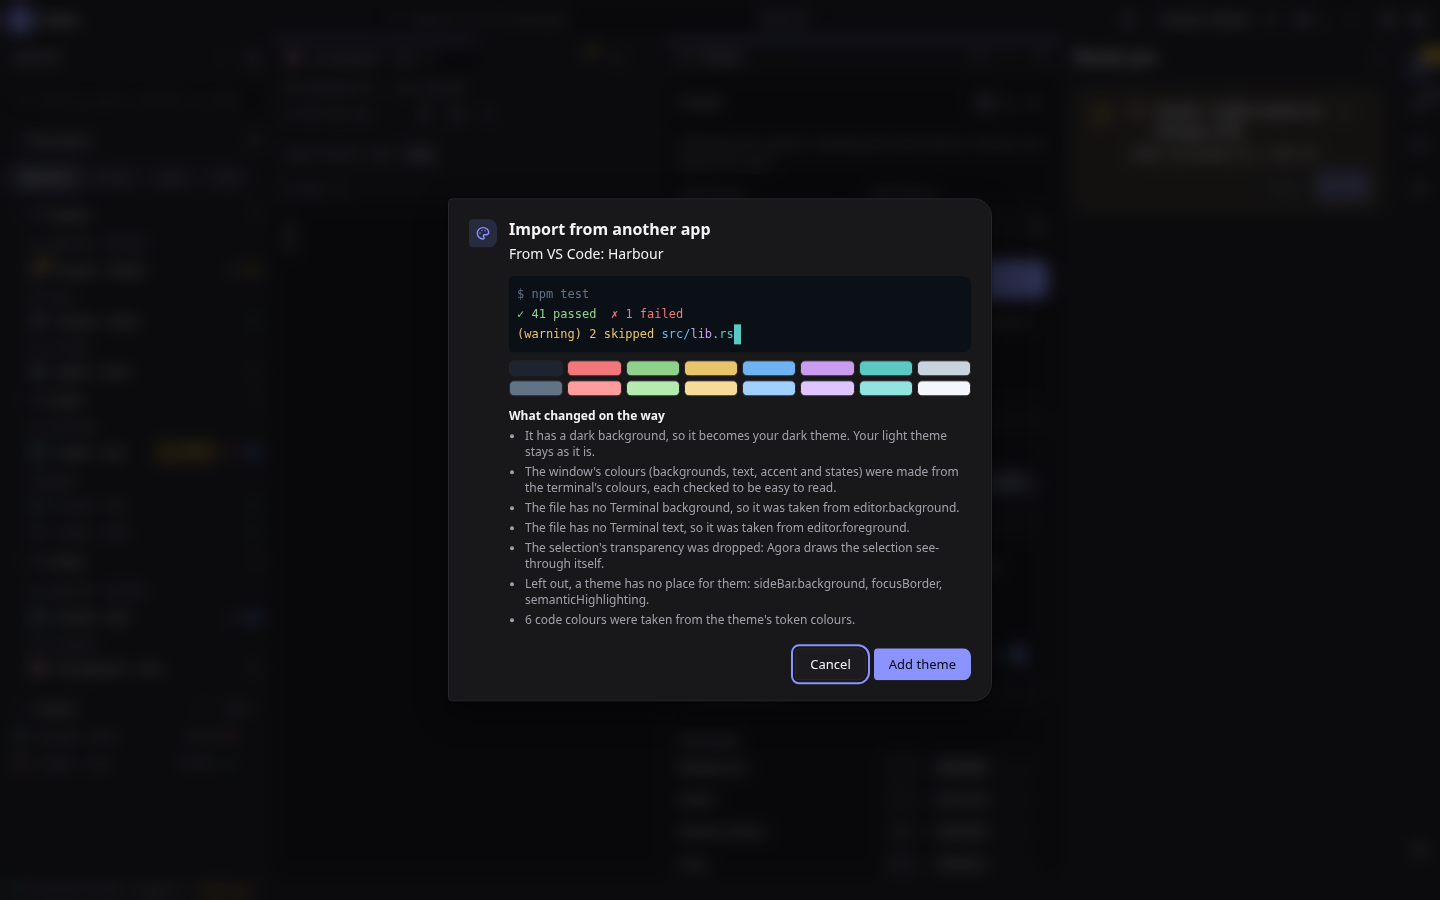
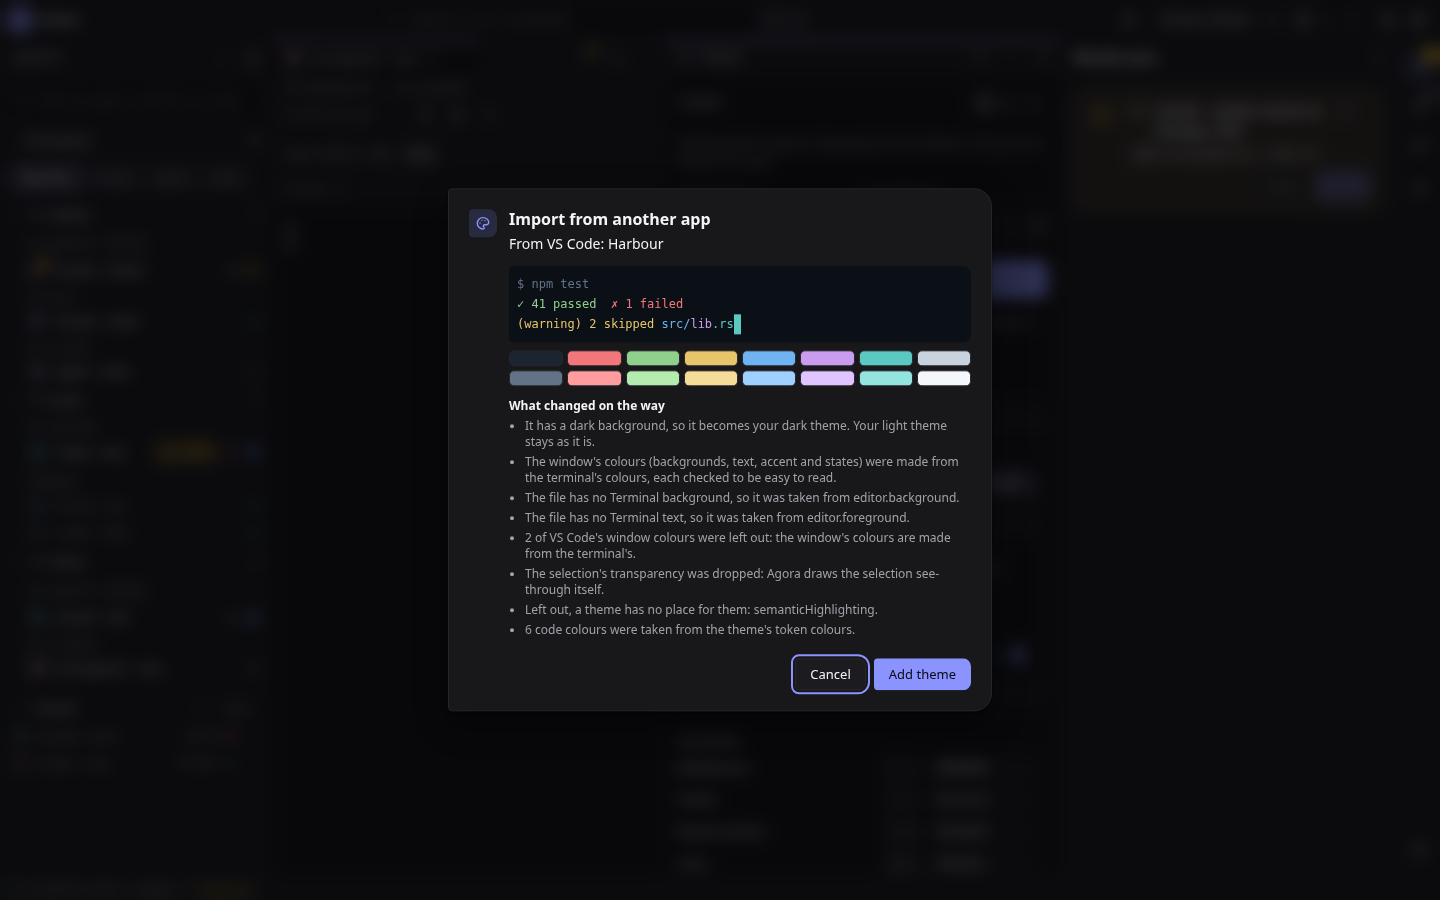
fix(web): theme import counts VS Code's window colours in one note and says when a theme includes another file; the screenshot script checks a hostile DTD and stylesheet are never fetched

Changed region(s): [[0.3125, 0.2178, 0.6875, 0.7778]]

diff --git a/apps/web/src/themes/import/convert.test.ts b/apps/web/src/themes/import/convert.test.ts
@@ -123,7 +123,10 @@ describe('each app\'s colour file becomes a format-2 theme', () => {
     expect(r.notes).toContainEqual({ code: 'fallback', key: 'background', from: 'editor.background' });
     // `include` and a token colours path name other files: never read, named as left out.
     const inc = fromVsCode('{"include":"./base.json","tokenColors":"./tokens.tmTheme","colors":{"terminal.background":"#000000"}}', 'v.json') as Extract<Converted, { ok: true }>;
-    expect(inc.notes).toContainEqual({ code: 'ignored', keys: ['tokenColors', 'include'], more: 0 });
+    expect(inc.notes).toContainEqual({ code: 'ignored', keys: ['tokenColors'], more: 0 });
+    expect(inc.notes).toContainEqual({ code: 'include' });
+    const many = fromVsCode(JSON.stringify({ colors: { 'terminal.background': '#000000', 'editor.background': '#111111', 'sideBar.background': '#222222', danger: '#ff0000' } }), 'v.json') as Extract<Converted, { ok: true }>;
+    expect(many.notes).toContainEqual({ code: 'window-colours', count: 3 });
   });
 
   it('reads one Windows Terminal scheme, a list of them or a settings file with them', () => {
@@ -170,7 +173,7 @@ describe('the floor and the theme check hold after import', () => {
       const text = JSON.stringify(r.file);
       for (const k of floorNames) expect(text, k).not.toContain(`"${k}"`);
       expect(readTheme(r.file).ok).toBe(true);
-      expect(r.notes.some((n) => n.code === 'ignored')).toBe(true);
+      expect(r.notes.some((n) => n.code === 'ignored' || n.code === 'window-colours')).toBe(true);
     }
   });
 
@@ -322,7 +325,8 @@ describe('words', () => {
     { code: 'missing', keys: ['cursor', 'bright-white'], more: 2 }, { code: 'ignored', keys: ['a'], more: 0 }, { code: 'unreadable', keys: ['b'], more: 0 },
     { code: 'alpha', keys: ['red'], more: 0 }, { code: 'background-alpha' }, { code: 'selection-alpha' }, { code: 'colour-space', space: 'p3' },
     { code: 'colour-space', space: 'other' }, { code: 'variant', used: 'light' }, { code: 'first-scheme', count: 3 },
-    { code: 'fallback', key: 'background', from: 'editor.background' }, { code: 'syntax', count: 1 },
+    { code: 'fallback', key: 'background', from: 'editor.background' }, { code: 'syntax', count: 1 }, { code: 'syntax', count: 6 },
+    { code: 'window-colours', count: 1 }, { code: 'window-colours', count: 130 }, { code: 'include' },
   ];
   const errors: ImportError[] = ['too-large', 'unknown-format', 'unreadable', 'entities', 'no-colours'];
   for (const lang of ['en', 'tr']) {

diff --git a/apps/web/src/themes/import/convert.ts b/apps/web/src/themes/import/convert.ts
@@ -28,7 +28,9 @@ export type ImportNote =
   | { code: 'variant'; used: Scheme } // iTerm2: the file has light and dark colours; one set was used
   | { code: 'first-scheme'; count: number } // Windows Terminal: several schemes; the first was used
   | { code: 'fallback'; key: TerminalKey; from: string } // VS Code: a terminal colour taken from the editor's
-  | { code: 'syntax'; count: number }; // VS Code: code colours taken from its token colours
+  | { code: 'syntax'; count: number } // VS Code: code colours taken from its token colours
+  | { code: 'window-colours'; count: number } // VS Code: its own window colours, left out (the window's are made from the terminal's)
+  | { code: 'include' }; // VS Code: the theme builds on another file, which is not read
 
 export type ImportError = 'too-large' | 'unknown-format' | 'unreadable' | 'entities' | 'no-colours';
 export type Converted =
@@ -434,8 +436,11 @@ function fromVsCodeValue(value: unknown, fileName: string, fallbackName: string)
   const tokenColors = own(value, 'tokenColors');
   if (Array.isArray(tokenColors)) src.syntax = syntaxFrom(tokenColors);
   else if (tokenColors !== undefined) src.ignored.push('tokenColors');
-  for (const k of keysOf(c)) if (!used.has(k)) src.ignored.push(k);
-  for (const k of keysOf(value)) if (!['name', 'colors', 'tokenColors', 'type', '$schema'].includes(k)) src.ignored.push(k);
+  // VS Code's own window colours are many (a theme has a hundred or more): counted in one note, not named.
+  const windowColours = Object.keys(c).filter((k) => !used.has(k)).length;
+  if (windowColours > 0) src.notes.push({ code: 'window-colours', count: windowColours });
+  if (own(value, 'include') !== undefined) src.notes.push({ code: 'include' });
+  for (const k of keysOf(value)) if (!['name', 'colors', 'tokenColors', 'type', '$schema', 'include'].includes(k)) src.ignored.push(k);
   return build('vscode', src, fileName, fallbackName);
 }
 export function fromVsCode(text: string, fileName = '', fallbackName = ''): Converted {

diff --git a/apps/web/src/themes/messages.ts b/apps/web/src/themes/messages.ts
@@ -84,7 +84,7 @@ export function importNoteText(n: ImportNote): string {
     case 'ignored': case 'unreadable': return t(`theme-import-note-${n.code}`, { keys: listText(n.keys, n.more) });
     case 'colour-space': return t('theme-import-note-colour-space', { space: n.space });
     case 'variant': return t('theme-import-note-variant', { used: n.used });
-    case 'first-scheme': case 'syntax': return t(`theme-import-note-${n.code}`, { count: n.count });
+    case 'first-scheme': case 'syntax': case 'window-colours': return t(`theme-import-note-${n.code}`, { count: n.count });
     case 'fallback': return t('theme-import-note-fallback', { key: terminalLabel(n.key), from: n.from });
     default: return t(`theme-import-note-${n.code}`);
   }

diff --git a/docs/ux/themes.md b/docs/ux/themes.md
@@ -336,6 +336,7 @@ the same two ways open it as a screen of its own (`#/theme`) with Back.
 ![A VS Code colour theme, shown with what changed on the way, before it is added (Dark)](../screenshots/theme-import-dark.png)
 ![A Ghostty theme with a light background, with the theme check's warnings (Light)](../screenshots/theme-import-light.png)
 ![The VS Code theme added: the window and the terminal in its colours, the request card as always](../screenshots/theme-import-added-dark.png)
+![The Ghostty theme added as the light theme](../screenshots/theme-import-added-light.png)
 
 **Import from another app…** in the editor reads the colours of another app's colour file and makes a format-2 theme of them
 (roadmap M5.1; web and desktop window only: no CLI, no hub, no schema). Nothing is added until **Add theme**: first a dialog shows
@@ -370,8 +371,9 @@ the terminal's colours, every note on what was left out or guessed, and what the
   `name`, else the file name) loses control and direction characters and the pieces a theme refuses (`;`, `<`, `url(` …).
 - **Bounded.** A file over 256 KiB is refused before it is read. The readers (`themes/import/read.ts`) are small hand-written subsets
   (TOML, YAML, Ghostty's lines, JSON with comments) that read line by line, keep keys in a `Map`, and stop at 4096 keys; a property
-  list goes through the browser's own XML parser, which loads no external DTD or entity (the dialog's screenshot script checks that
-  importing an iTerm2 file makes no request), after the text is refused if it declares an entity or a DTD of its own, nests deeper
+  list goes through the browser's own XML parser, which loads no external DTD, entity or stylesheet (the dialog's screenshot script
+  checks that importing an iTerm2 file makes no request, and that one naming a DTD and a stylesheet on the page's own server fetches
+  neither), after the text is refused if it declares an entity or a DTD of its own, nests deeper
   than eight, or has more than 20 000 elements. A fuzz test throws random and mutated files at every converter.
 - Taken by `scripts/screenshots-theme-import.mjs` from the demo window.
 
